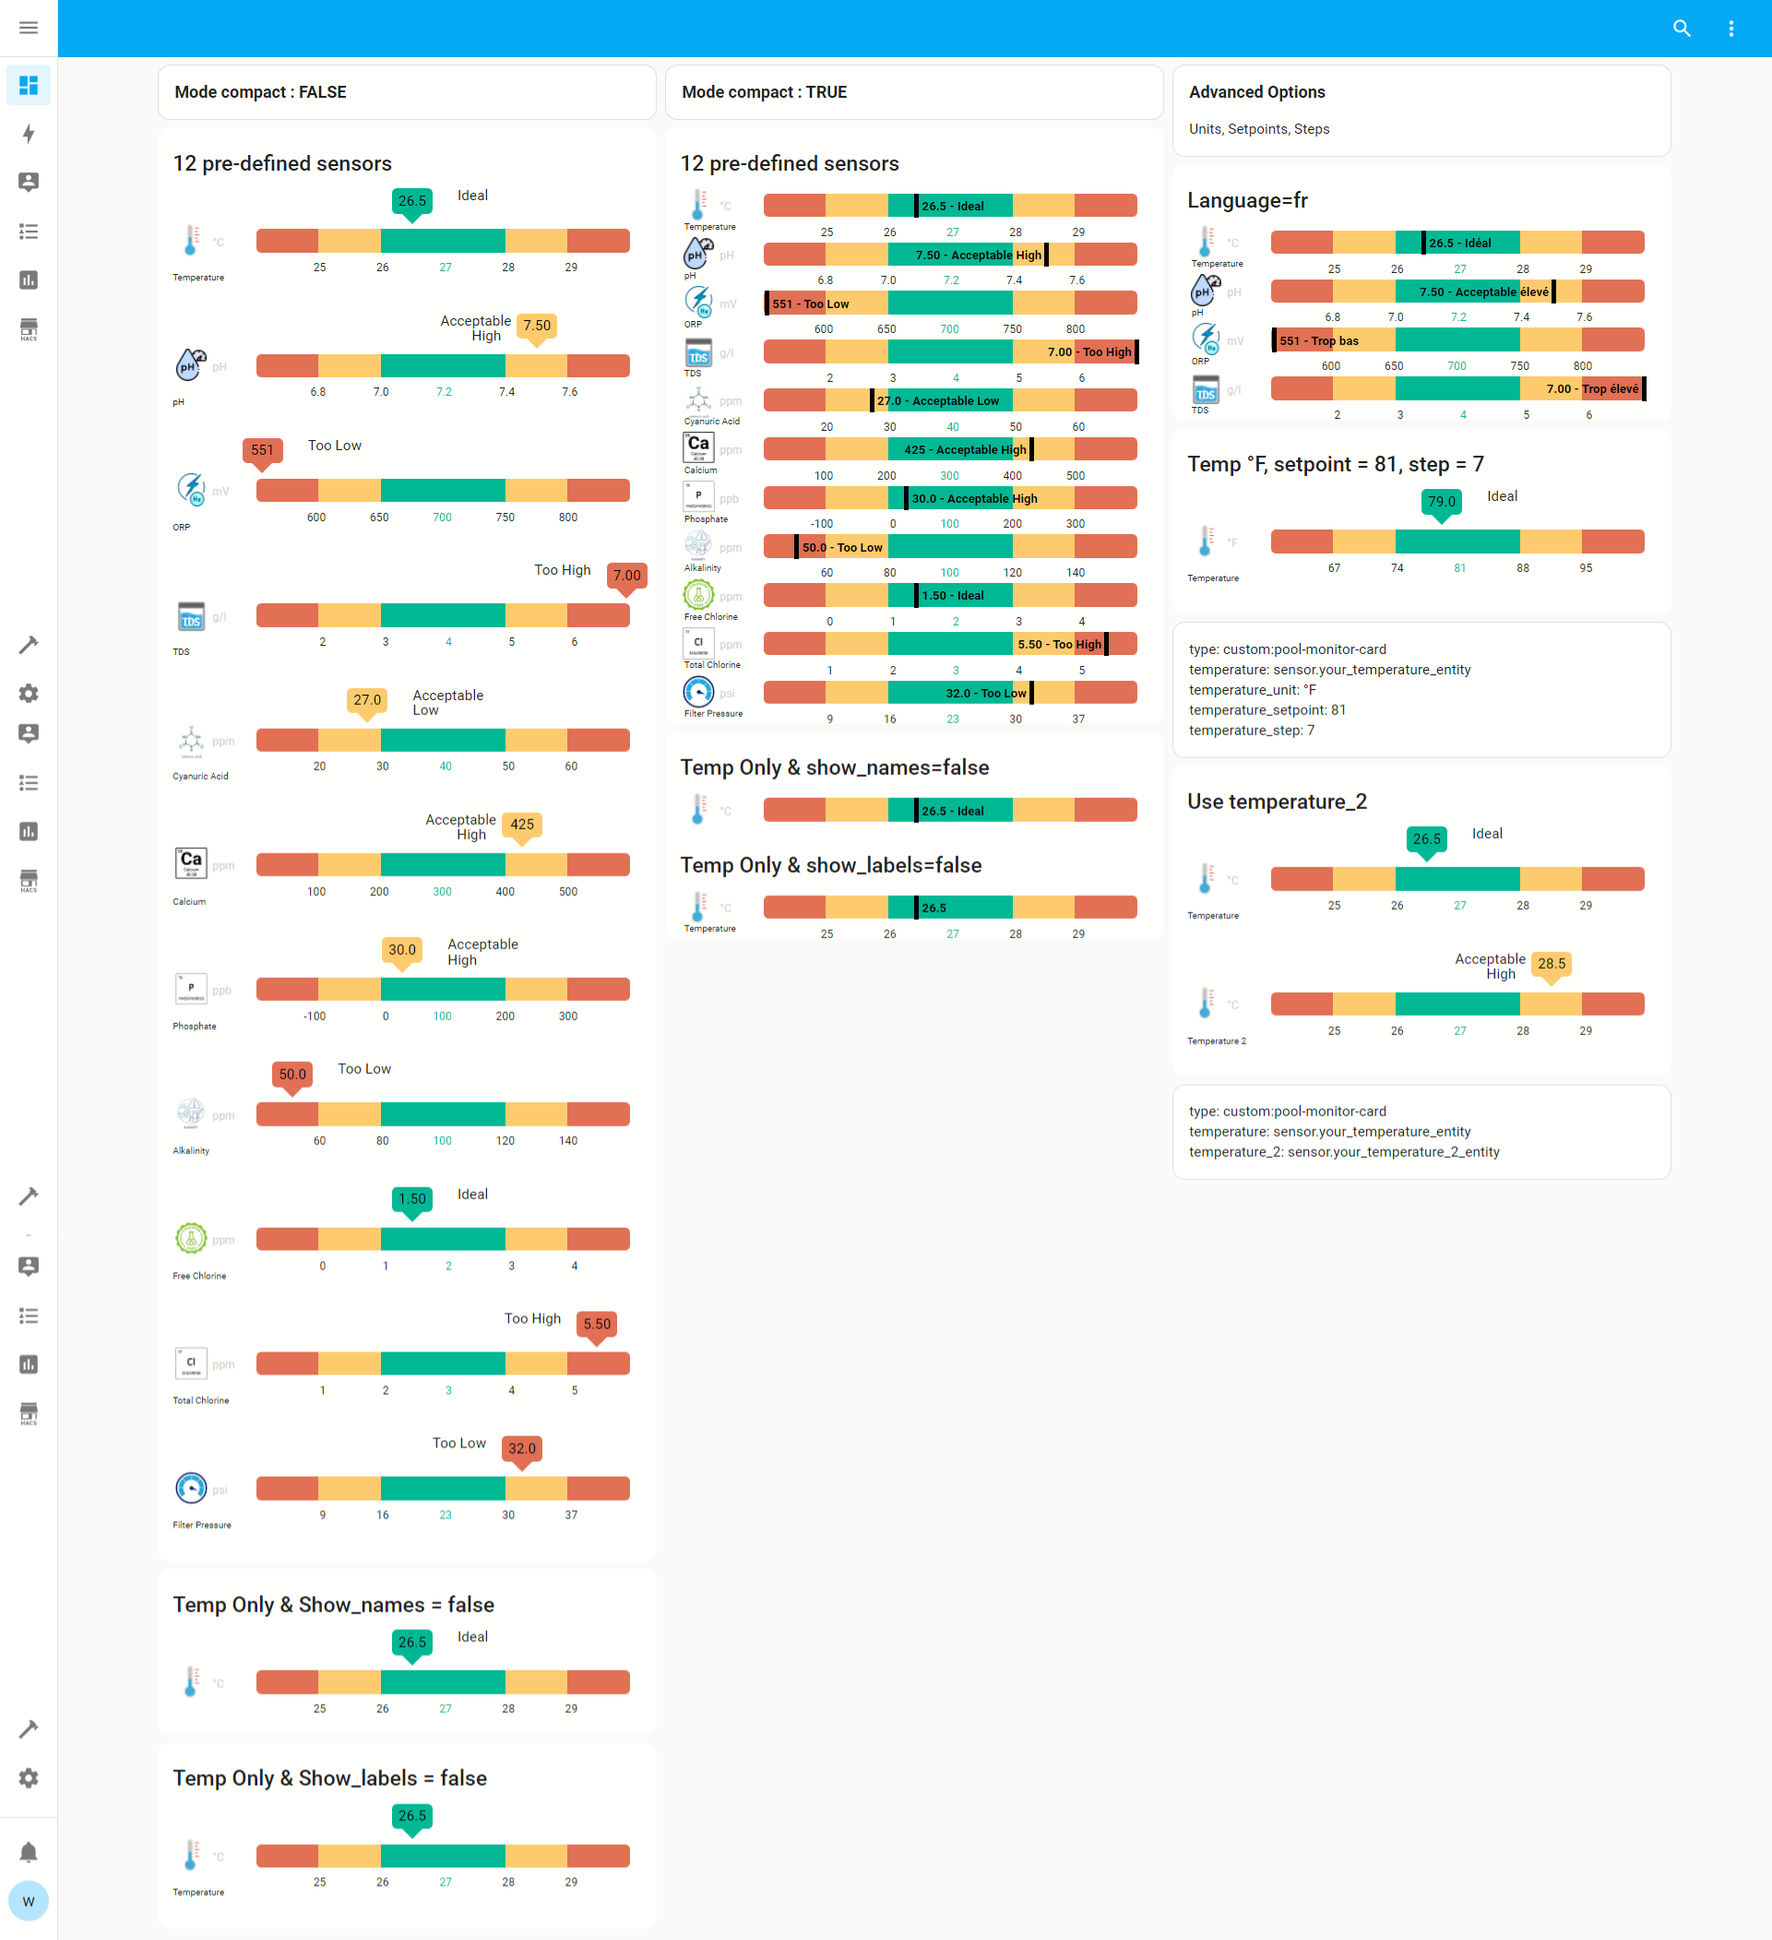
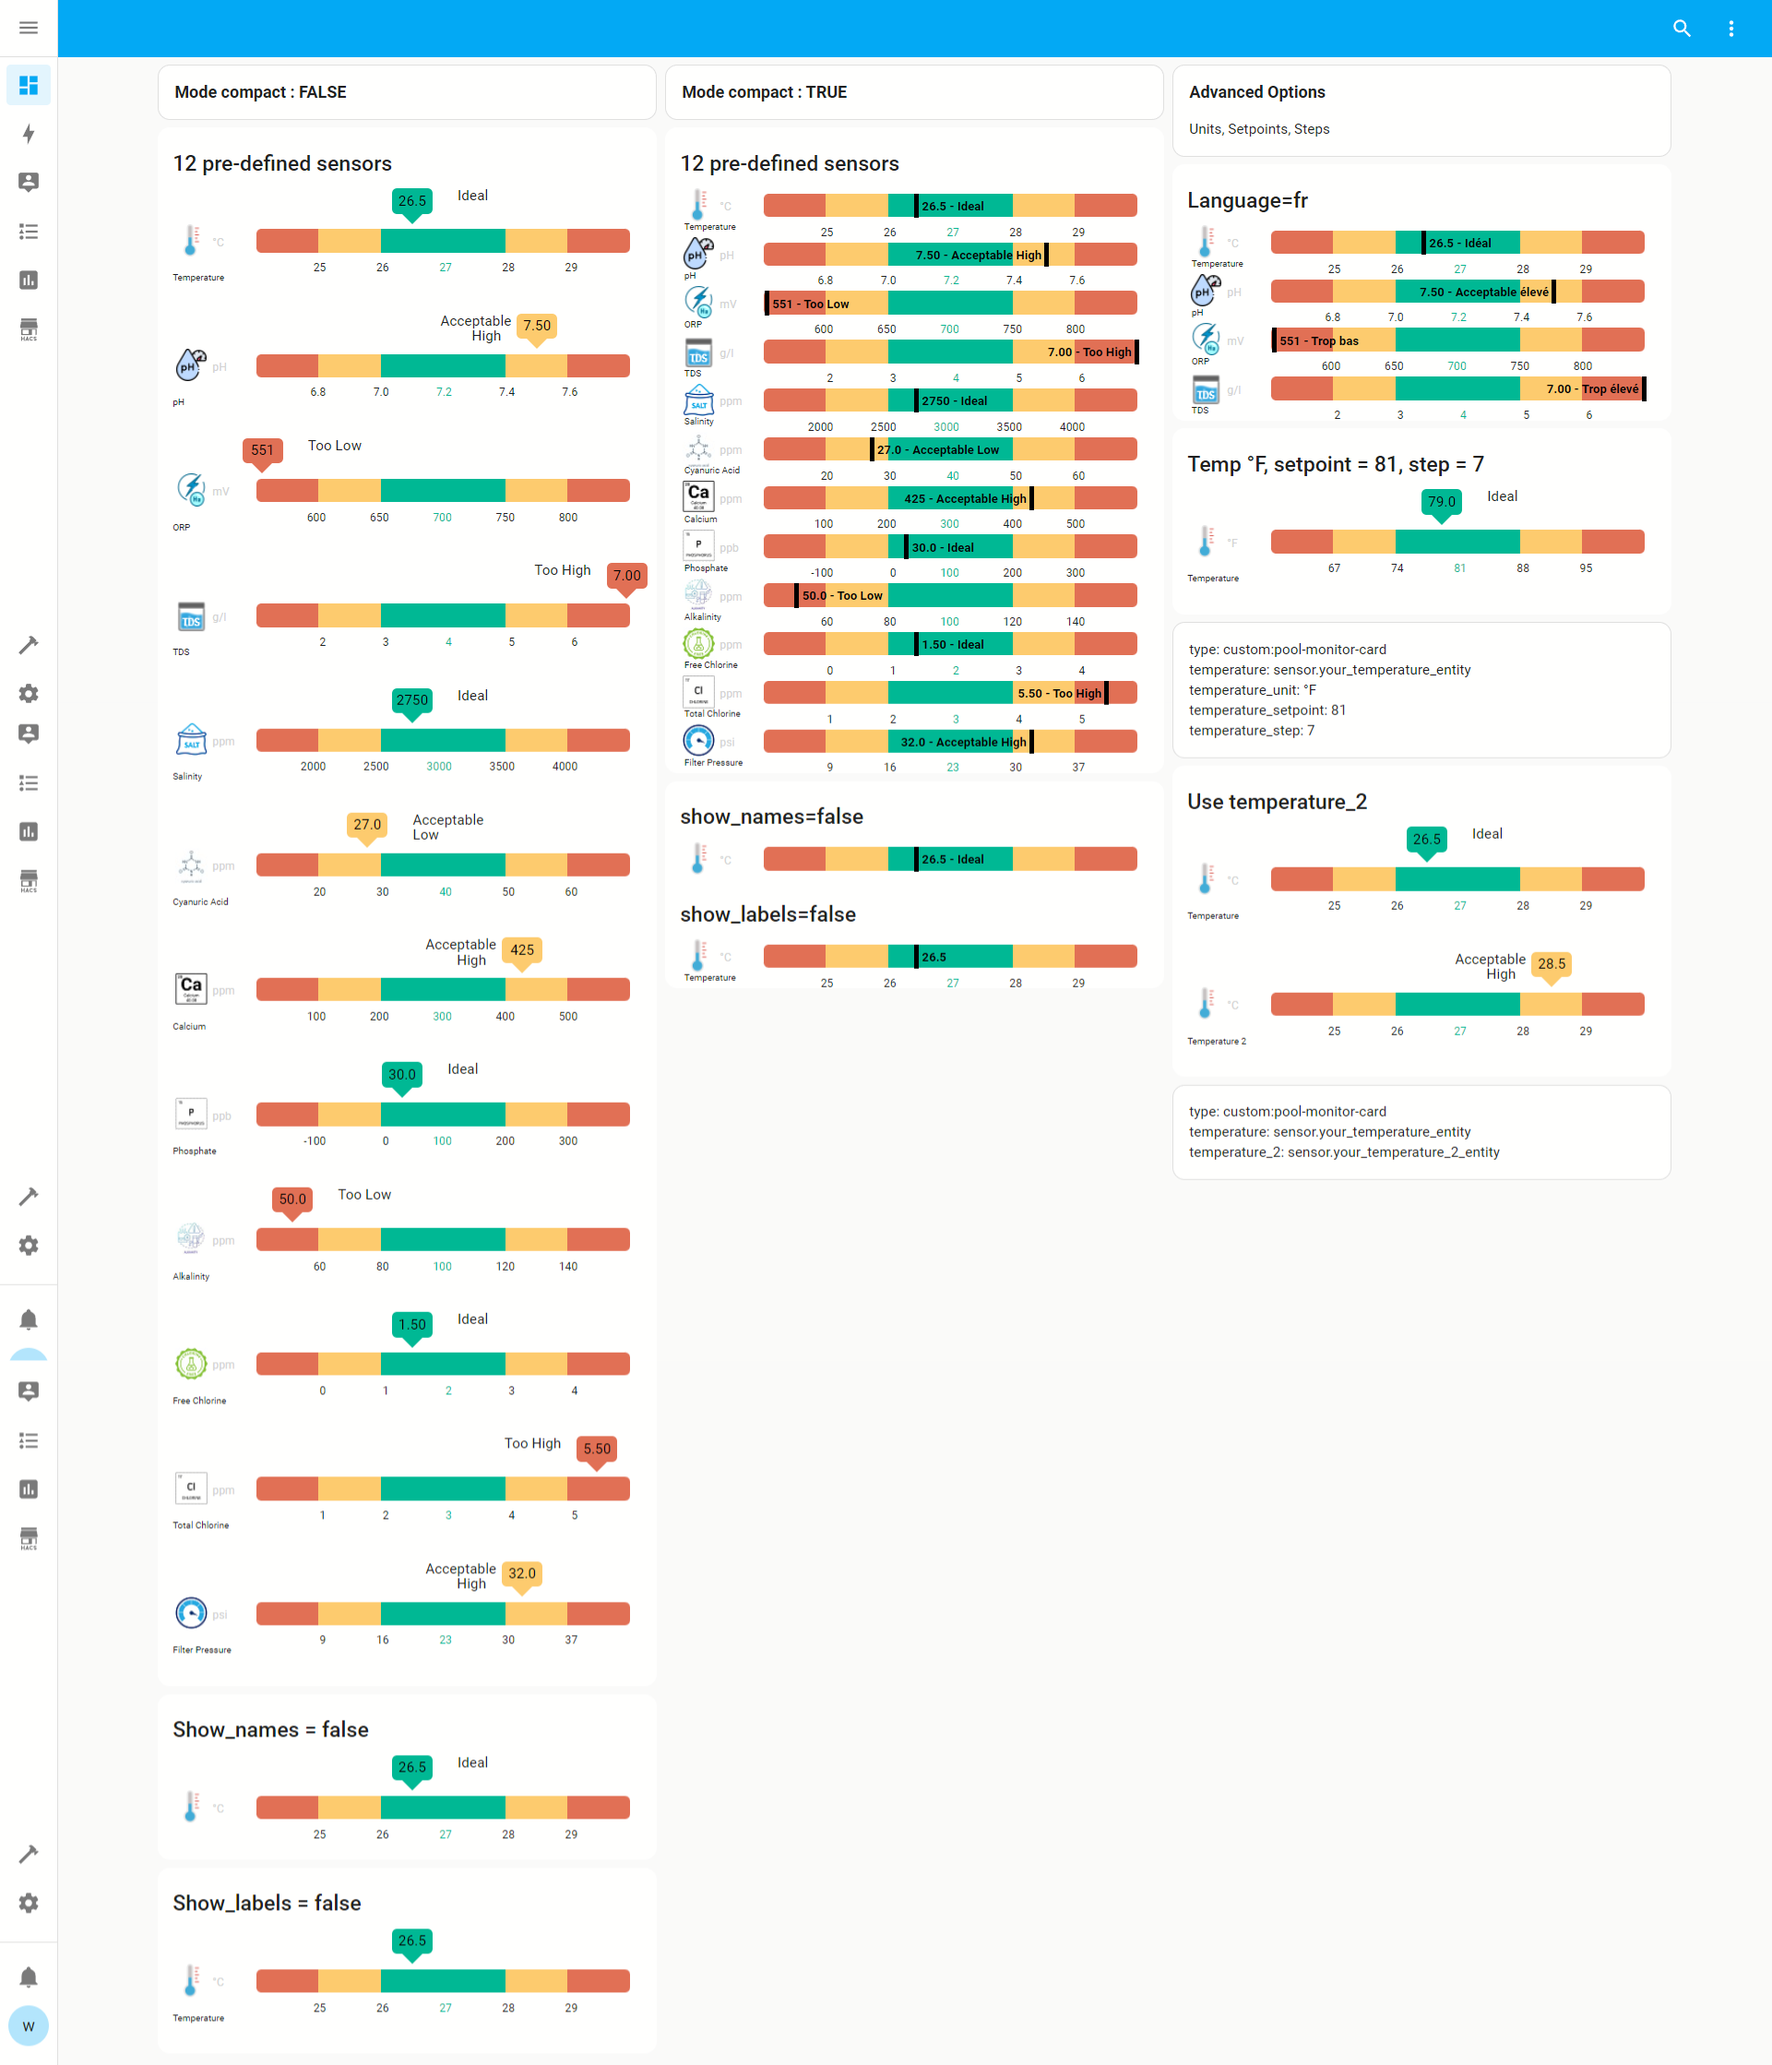
update numeric comparaison

diff --git a/pool_monitor_card.js b/pool_monitor_card.js
@@ -354,7 +354,9 @@ class PoolMonitorCard extends LitElement {
     }    
     if (config.pressure) {
       data.pressure = this.calculateData('pressure', 'Filter Pressure', config.pressure, config.pressure_setpoint,config.pressure_step, config.pressure_unit, config.pressure_override, config.override) 
-    }     
+    }    
+    
+    console.log('data',data)
     return data
   }
 
@@ -386,22 +388,22 @@ class PoolMonitorCard extends LitElement {
 
     newData.separator = config.show_labels ? "-":"";
     newData.color = "transparent";
-    if (newData.value < newData.setpoint_class[0]) {
+    if (Number(newData.value)  < Number(newData.setpoint_class[0])) {
       newData.state = config.show_labels ? translations[config.language]["state"][1]:"";
       newData.color = "#e17055";
-    } else if (newData.value >= newData.setpoint_class[0] && newData.value < newData.setpoint_class[1]) {
+    } else if (Number(newData.value)  >= Number(newData.setpoint_class[0]) && Number(newData.value)  < Number(newData.setpoint_class[1])) {
       newData.state = config.show_labels ? translations[config.language]["state"][2]:"";
       newData.color = "#fdcb6e";
-    } else if (newData.value >= newData.setpoint_class[1] && newData.value < newData.setpoint_class[2]) {
+    } else if (Number(newData.value)  >= Number(newData.setpoint_class[1]) && Number(newData.value)  < Number(newData.setpoint_class[2])) {
       newData.state = config.show_labels ? translations[config.language]["state"][3]:"";
       newData.color = "#00b894";
-    } else if (newData.value >= newData.setpoint_class[2] && newData.value < newData.setpoint_class[3]) {
+    } else if (Number(newData.value)  >= Number(newData.setpoint_class[2]) && Number(newData.value)  < Number(newData.setpoint_class[3])) {
       newData.state = config.show_labels ? translations[config.language]["state"][4]:"";
       newData.color = "#00b894";
-    } else if (newData.value >= newData.setpoint_class[3] && newData.value < newData.setpoint_class[4]) {
+    } else if (Number(newData.value)  >= Number(newData.setpoint_class[3]) && Number(newData.value)  < Number(newData.setpoint_class[4])) {
       newData.state = config.show_labels ? translations[config.language]["state"][5]:"";
       newData.color = "#fdcb6e";
-    } else if (newData.value >= newData.setpoint_class[4]) {
+    } else if (Number(newData.value)  >= Number(newData.setpoint_class[4])) {
       newData.state = config.show_labels ? translations[config.language]["state"][6]:"";
       newData.color = "#e17055";
     }
